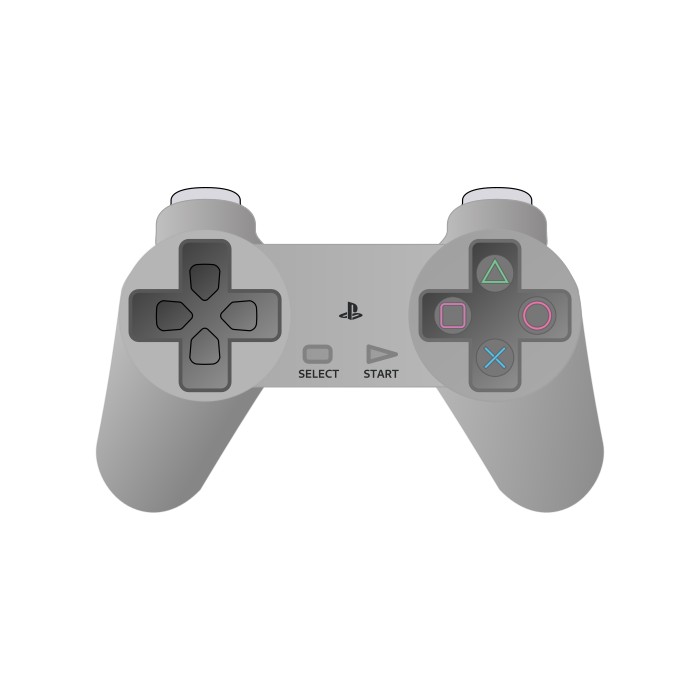
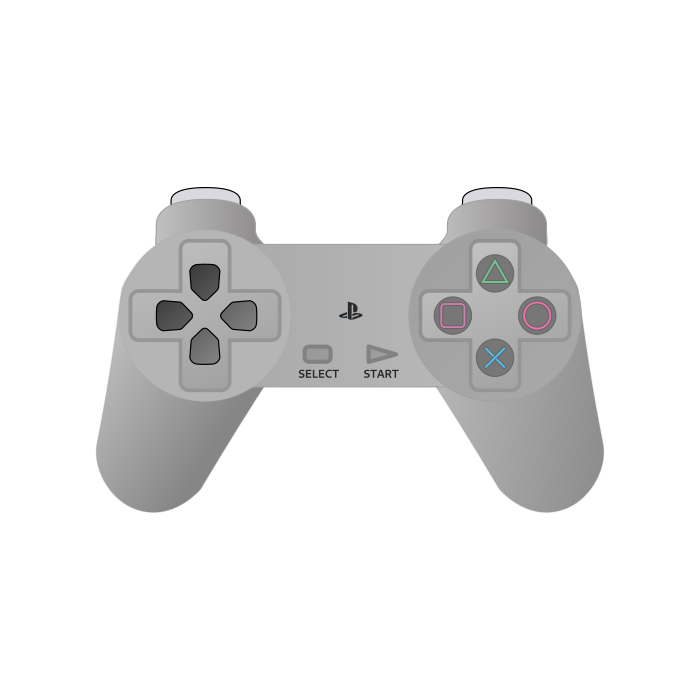
Theming

Changed region(s): [[0.6, 0.33, 0.84, 0.57], [0.18, 0.33, 0.42, 0.57]]

diff --git a/src/js/init.js b/src/js/init.js
@@ -290,24 +290,31 @@ async function getPlatformPreference(platformName, key) {
 }
 
 function applyTheme(theme) {
-    console.log("theme: ", theme);
-    const splash = document.getElementById('splash');
     const body = document.querySelector('body');
     const menu = document.getElementById('menu');
 
-    splash.style.backgroundImage = `url("../../img/themes/${theme}/background.png")"`;
-    body.style.backgroundImage = `url("../../img/themes/${theme}/background.png")`;
-    menu.style.backgroundImage = `url("../../img/themes/${theme}/background.png")`;
+    const baseDir = LB.baseDir.endsWith('/')
+        ? LB.baseDir.slice(0, -1)
+        : LB.baseDir;
+
+    const bgImageUrl = `url("${baseDir}/img/themes/${theme}/background.png")`;
+
+    body.style.backgroundImage = bgImageUrl;
+    menu.style.backgroundImage = bgImageUrl;
 
     menu.style.transition = 'filter 1s';
     menu.style.filter = 'opacity(0.5)';
 
+    body.classList.remove('theme-day', 'theme-night', 'theme-default');
+    body.classList.add(`theme-${theme}`);
+
+    menu.style.transition = 'filter 1s, color 1s';
+    menu.style.filter = 'opacity(0.5)';
+
     setTimeout(() => {
-        menu.style.backgroundImage = `url("../../img/themes/${theme}/background.png")`;
+        menu.style.backgroundImage = bgImageUrl;
         menu.style.filter = 'opacity(1)';
     }, 100);
-
-
 }
 
 function setFooterSize(size) {

diff --git a/src/js/control.js b/src/js/control.js
@@ -412,9 +412,9 @@ function initGallery(currentIndex, disabledPlatform) {
         }
 
         function onMenuClick(event) {
-            console.log("event.target: ", event.target);
-            console.log("event.currentTarget: ", event.currentTarget);
-            _closeMenu(event.target.src);
+            if (event.target.src) {
+                _closeMenu(event.target.src);
+            }
         }
 
         function onMenuWheel(event) {
@@ -493,6 +493,8 @@ function initGallery(currentIndex, disabledPlatform) {
         }
 
         async function _closeMenu(imgSrc) {
+
+            document.getElementById('menu').removeEventListener('click', onMenuClick);
 
             updatePagesCarousel();
 

diff --git a/src/css/init.css b/src/css/init.css
@@ -28,6 +28,21 @@
   --page-rotation-radius: 0;
 }
 
+.theme-day {
+  --color-text-1: #333333;
+  --color-text-2: #666666;
+}
+
+.theme-night {
+  --color-text-1: #ffffff;
+  --color-text-2: #dddddd;
+}
+
+.theme-default {
+  --color-text-1: #ffcc00;
+  --color-text-2: #ff9900;
+}
+
 * {
   box-sizing: border-box; /* Include padding and border in element dimensions */
   /* max-width: 100%; /\* Prevent elements from exceeding the viewport width *\/ */
@@ -108,4 +123,8 @@ header, footer  {
   right: 20px;
   font-size: 24px;
   cursor: pointer;
+}
+
+#circle:hover {
+  color: var(--color-text-2);
 }

diff --git a/src/css/form.css b/src/css/form.css
@@ -234,7 +234,7 @@ label.checkbox {
   font-size: 12pt;
   font-weight: 700;
 
-  color: var(--color-text-1);
+  color: #FFFFFF;
 
   background-color: var(--color-bg2);
   border: 1px solid var(--color-border-off);
